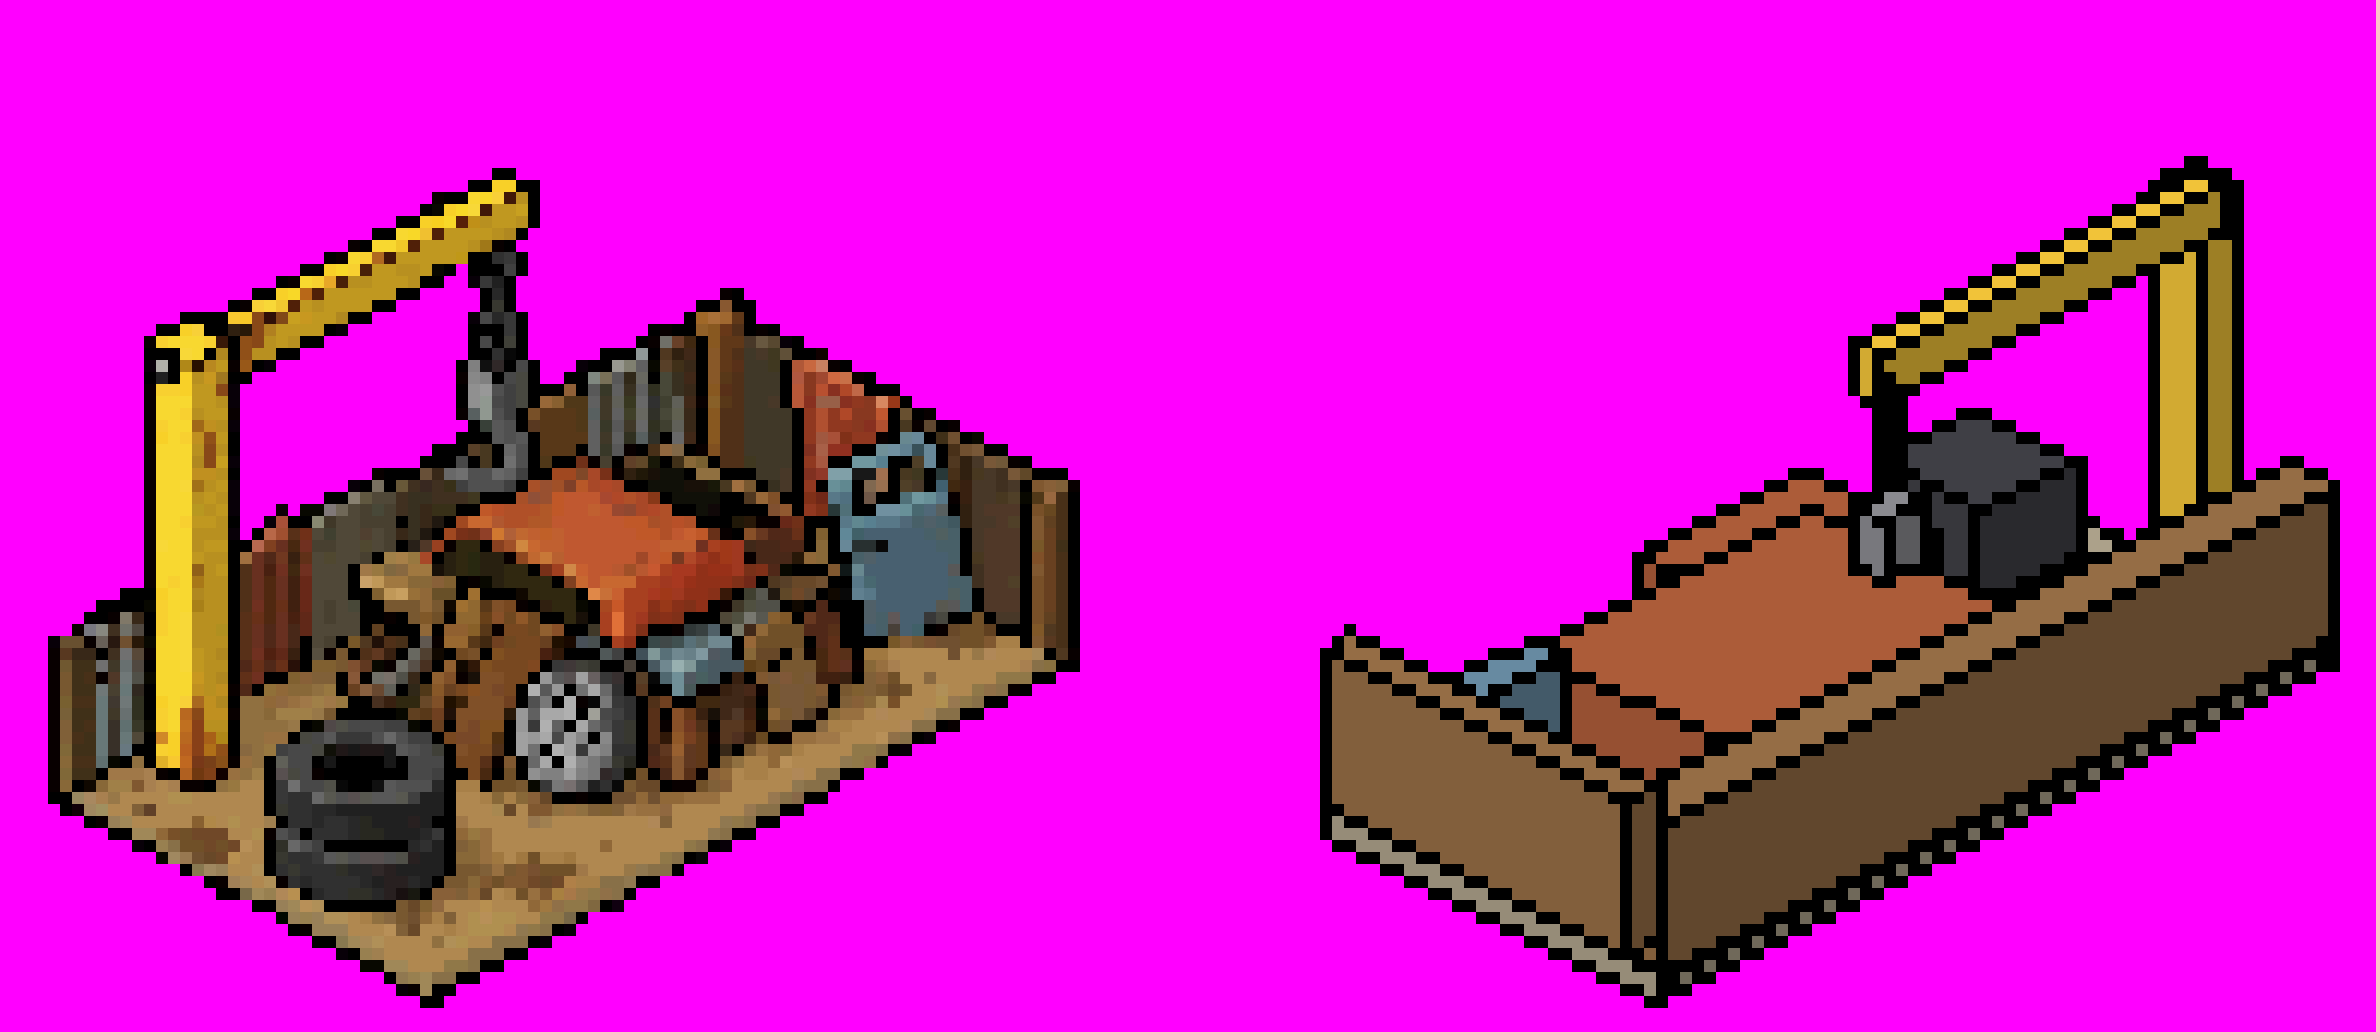
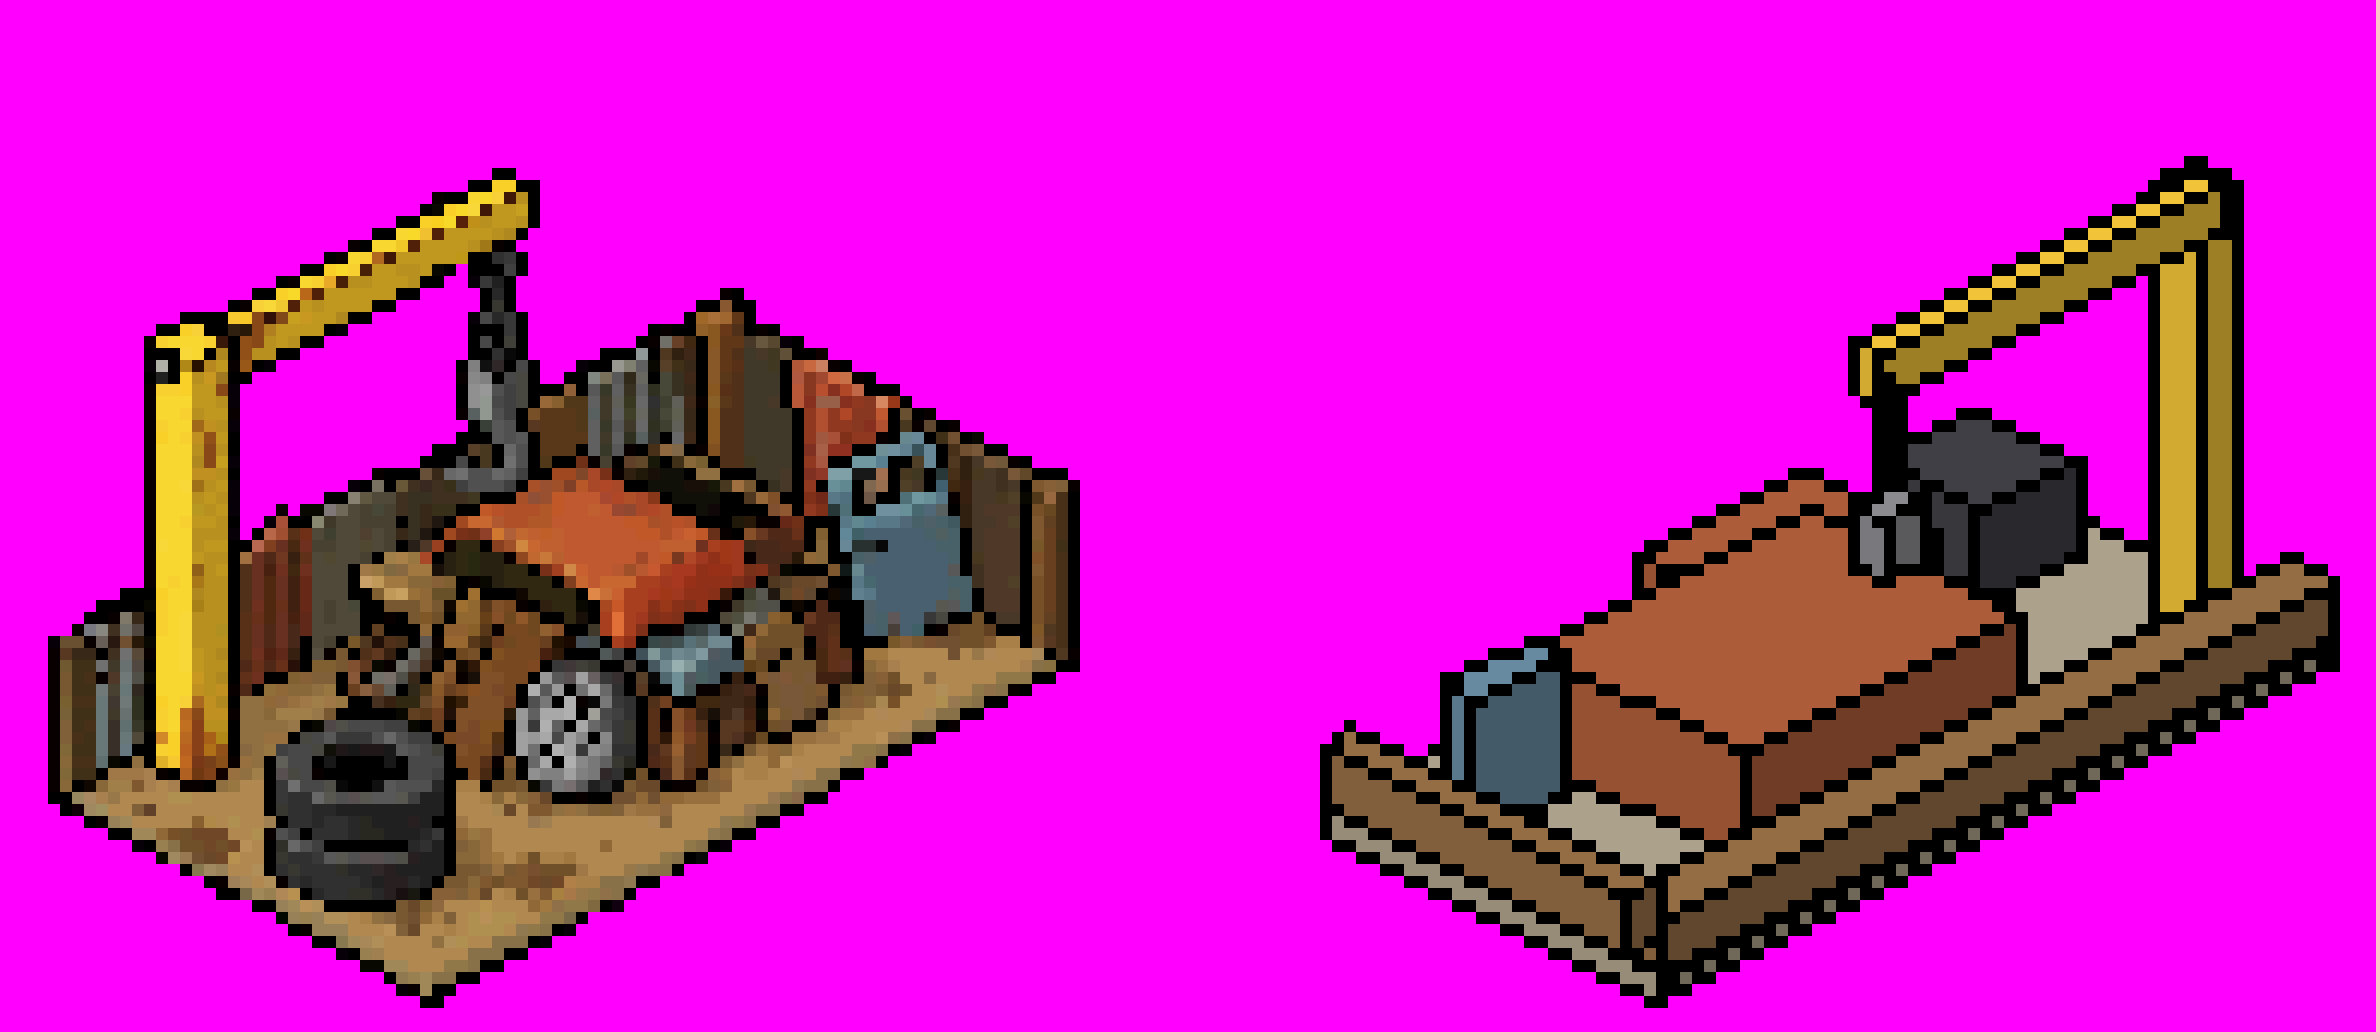
Scrapyard back model: low near-side fence so the yard stays open
Claude-Session: https://claude.ai/code/session_014xWrqmw1tDuMEr3xW9Kw6Z

Changed region(s): [[0.5295, 0.4341, 0.9966, 0.8992]]

diff --git a/tools/art/model_scrapyard.py b/tools/art/model_scrapyard.py
@@ -33,11 +33,11 @@ if __name__ == '__main__':
     g.paste(m, (0, 0), m)
     g.save(sys.argv[1] if len(sys.argv) > 1 else 'tools/art/templates/t56/model_guide_2x1_scrapyard.png')
 
-def back_guide(out='tools/art/templates/t56/back_model_2x1_scrapyard.png', front='assets/buildings/t56/scrapyard.png'):
+def back_guide(out='tools/art/templates/t56/back_model_2x1_scrapyard.png', front='assets/buildings/t56/scrapyard.png', fence_h=15):
     """Approved front on the left, the model turned 180 degrees (u -> 2-u, v -> 1-v) on the right."""
     global OBJ
     keep = OBJ
-    OBJ = [(2 - u1, 2 - u0, 1 - v1, 1 - v0, h0, h1, c) for (u0, u1, v0, v1, h0, h1, c) in keep]
+    OBJ = [(2 - u1, 2 - u0, 1 - v1, 1 - v0, h0, fence_h if c == FENCE else h1, c) for (u0, u1, v0, v1, h0, h1, c) in keep]   # fence_h: the fence now faces us; lower keeps the yard open
     m = render(A=(110, 69)); OBJ = keep
     g = Image.new('RGBA', (198 * 12, 86 * 12), (255, 0, 255, 255))
     f = Image.open(front).convert('RGBA')
